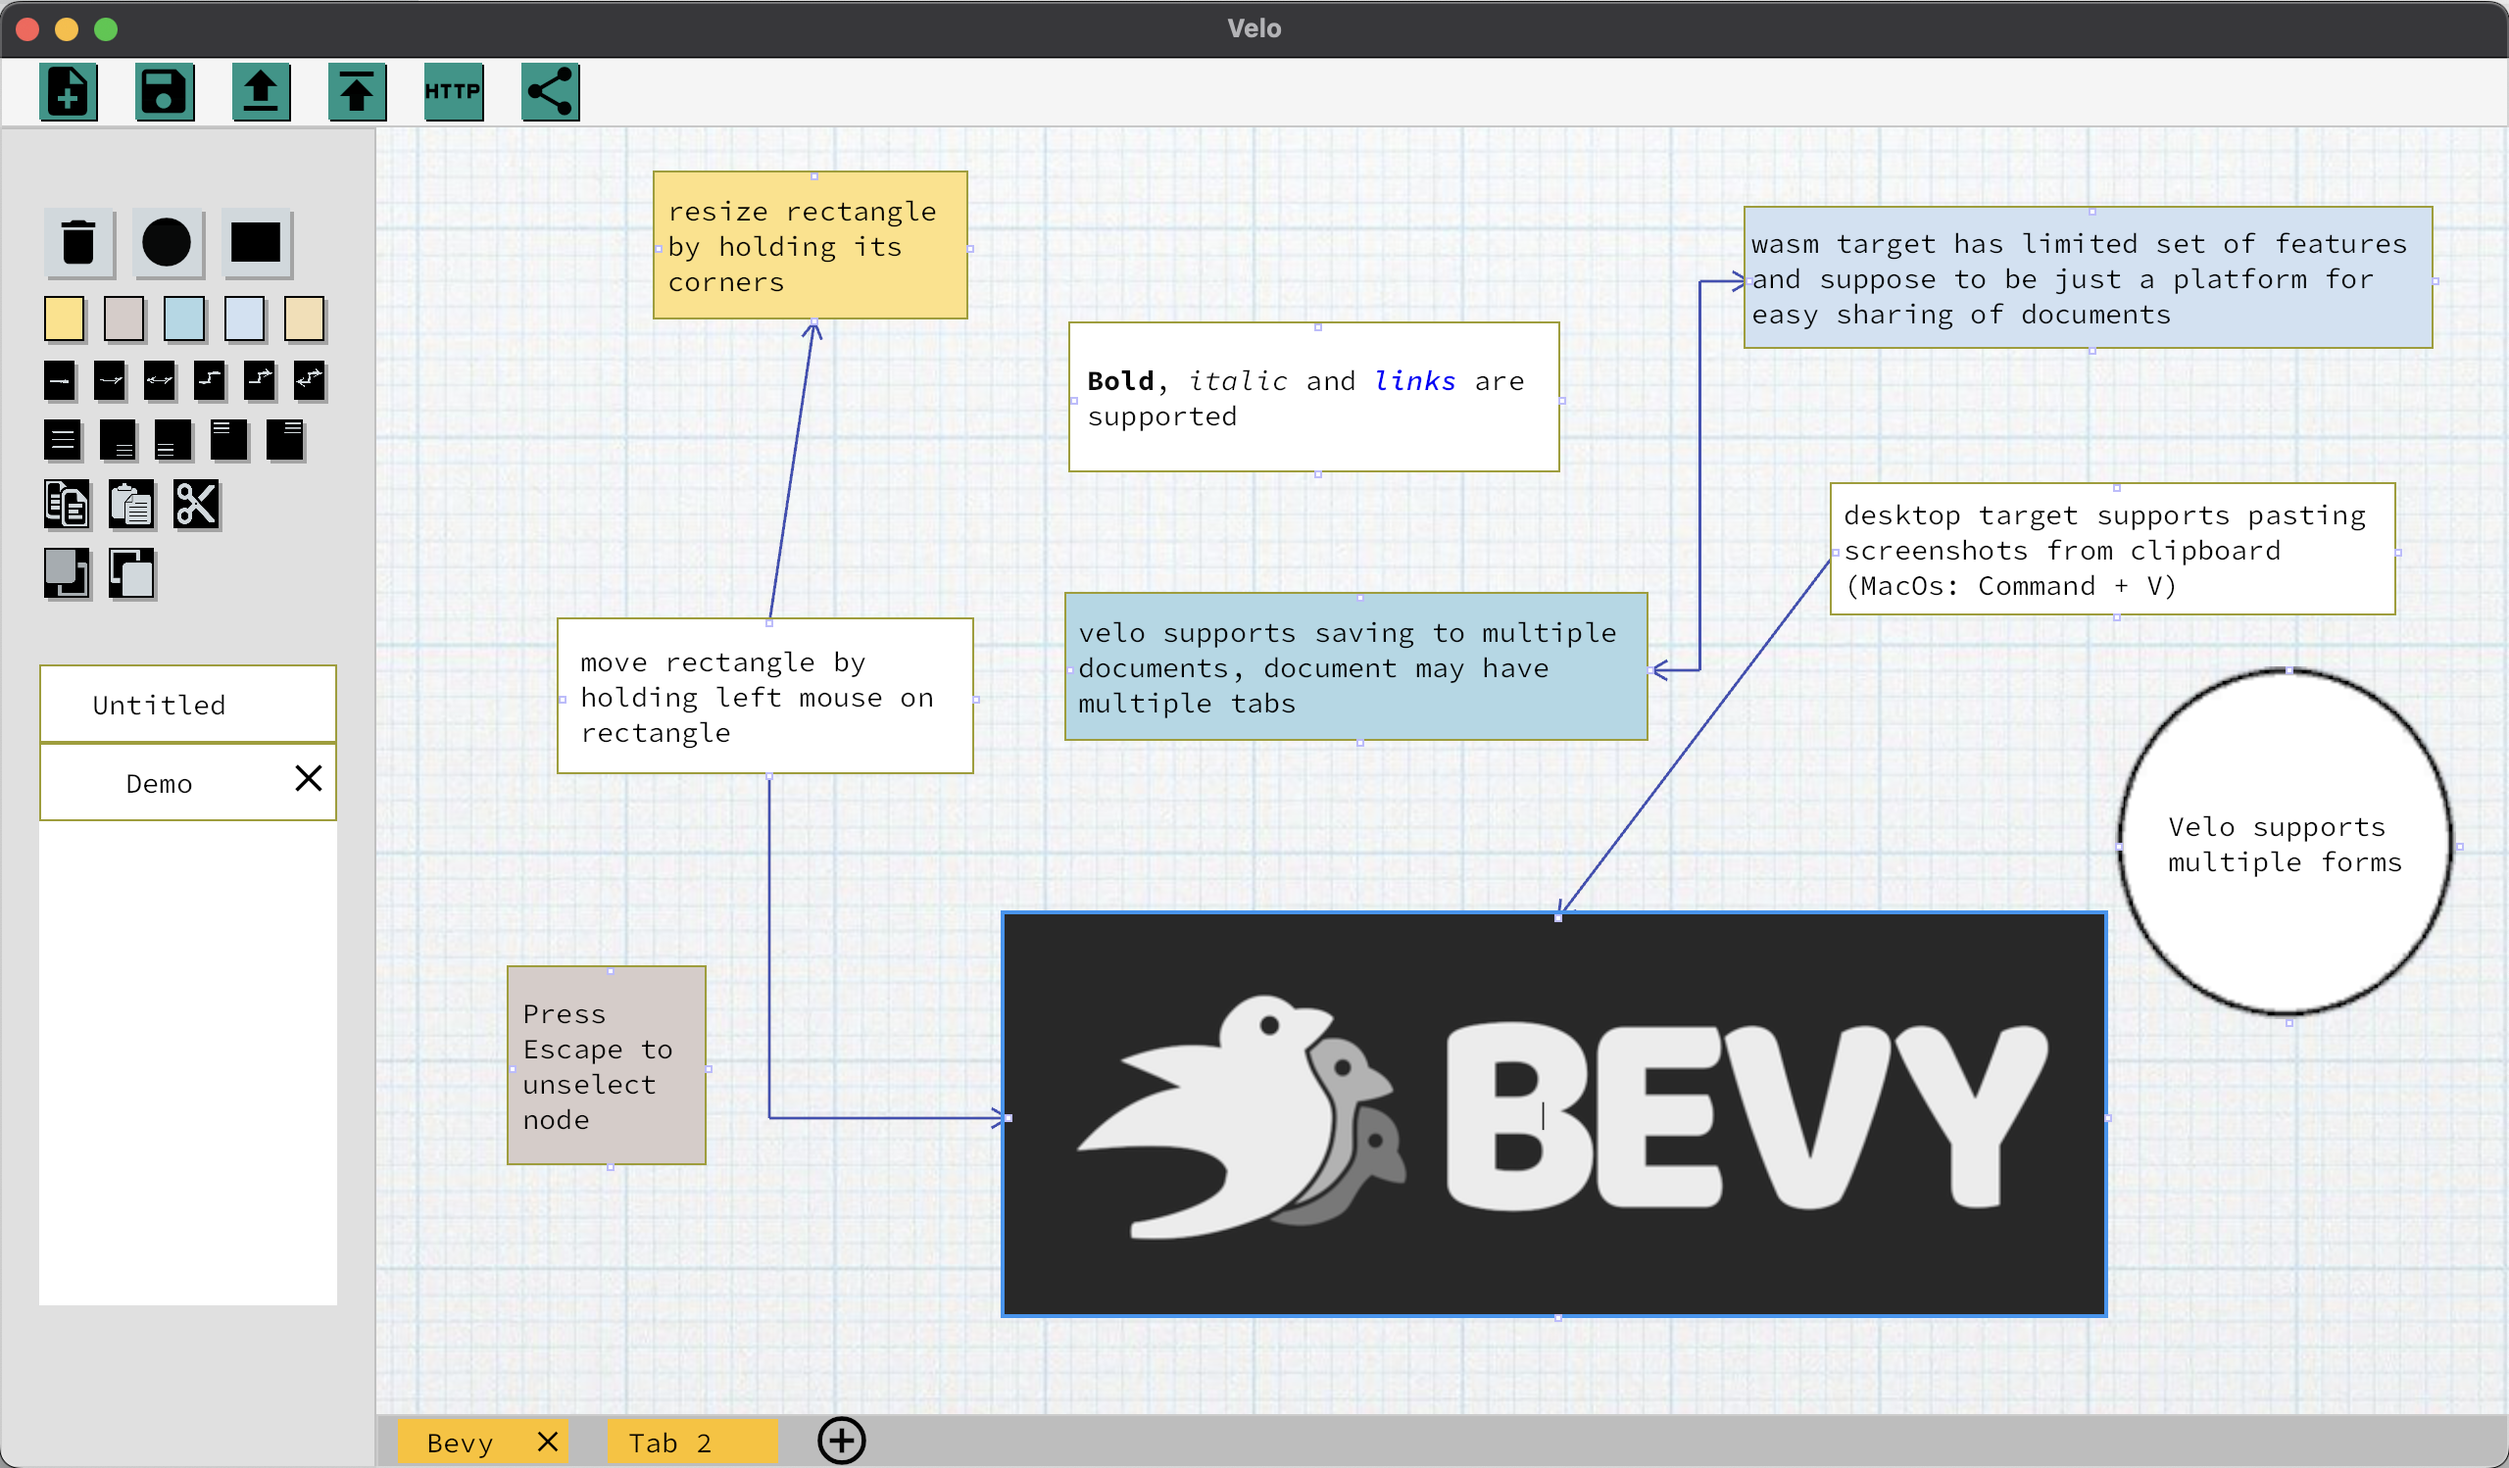
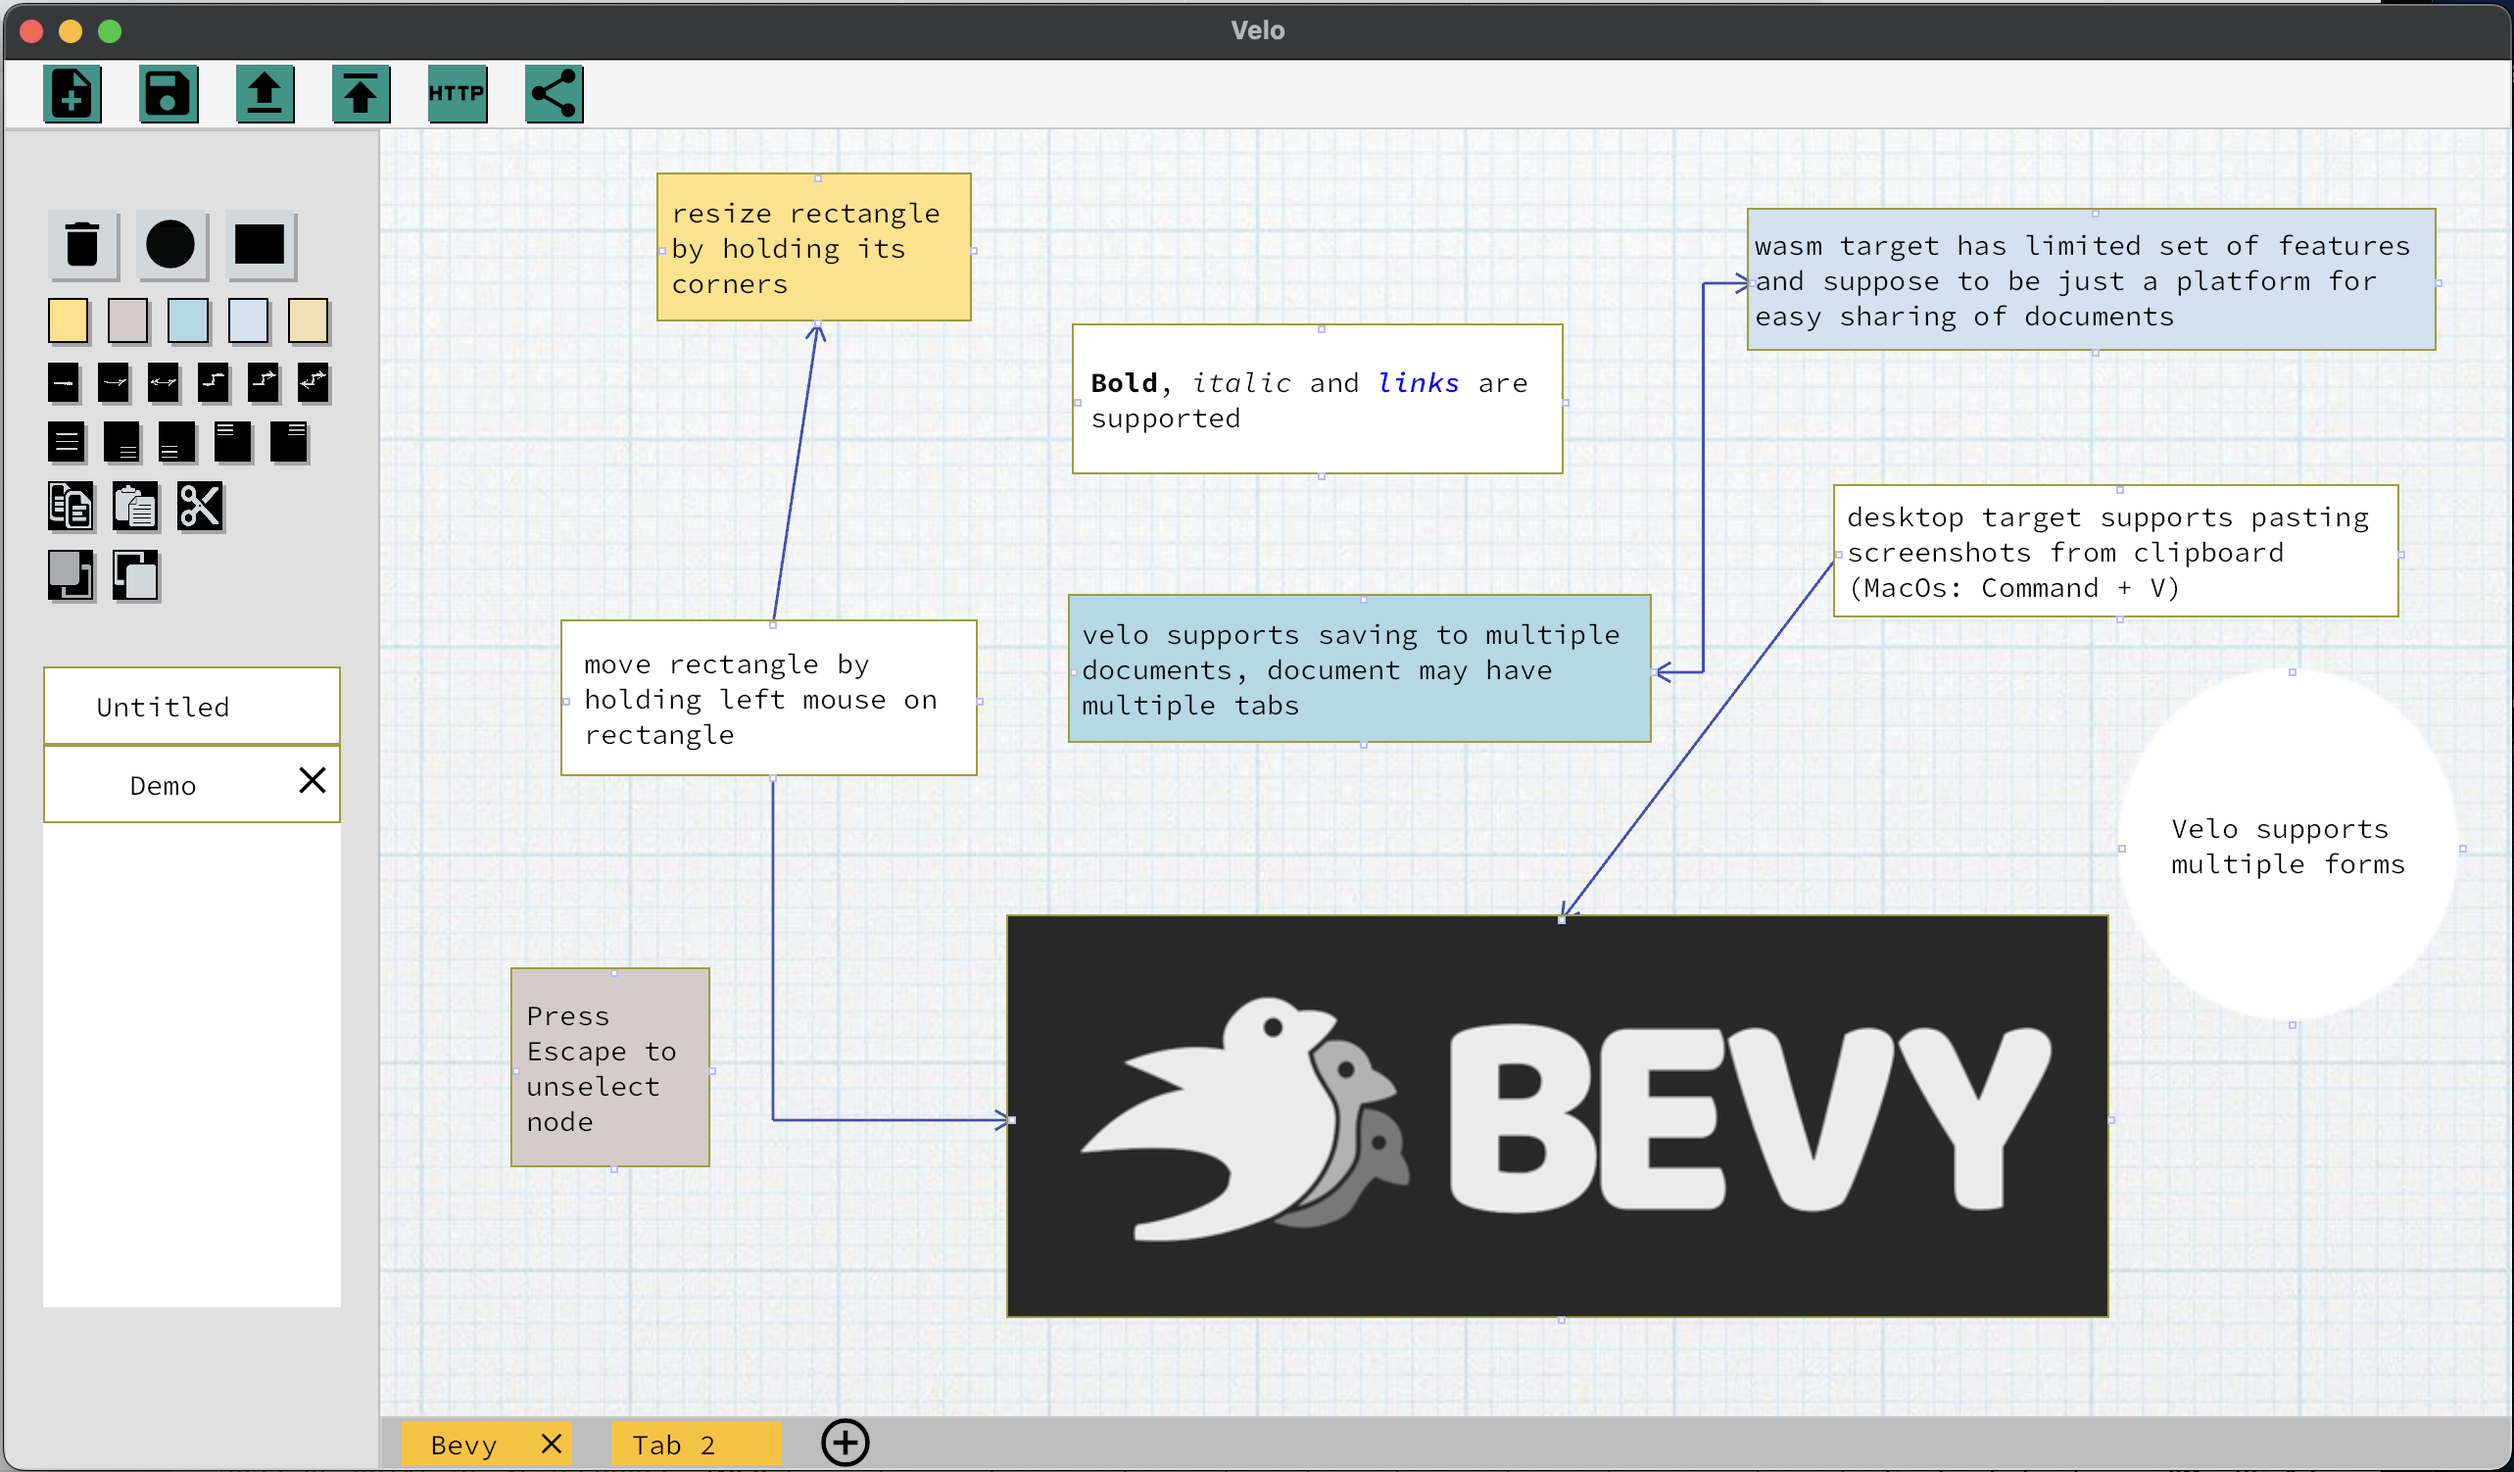
Update circle asset

diff --git a/Readme.md b/Readme.md
@@ -23,26 +23,24 @@ would it allow me to learn the language, but it would also be an
 enjoyable project to work on.
 
 ## What\'s implemented:
-
--   add/remove rectangle
--   rectangle resizing
--   rectangle repositioning
--   wrapped text inside rectangles
--   paste screenshot from clipboard
+-   support rectangle/circle nodes
+-   add/remove node
+-   node resizing
+-   node repositioning
+-   wrapped text inside nodes
+-   paste screenshot from clipboard [native target only]
 -   connect nodes with arrows
--   make app snapshot in memory and load from it (command + s\[l\])
+-   make app snapshot in memory and load from it (MacOs: Command + s\[l\])
 -   save app state to db and load from it
--   change background color of rectangle
--   move rectangle to front/back
--   positioning text in rectangle
+-   change background color of nodes
+-   move node to front/back
+-   positioning text inside node
 -   buttons to cut/copy/paste text
--   clickable links
--   tabs support
--   documents support
+-   multiple documents/tabs support
 -   load app state from url
 -   ability to create sharable url of the document using \"Share
     Document\" button (**.velo.toml** should be created in user home
-    directory containing GitHub access token with \"gist\" scope):
+    directory containing GitHub access token with \"gist\" scope) [native target only]:
 
    ```toml
    github_access_token = "<github_access_token>"
@@ -51,9 +49,6 @@ enjoyable project to work on.
 - initial markdown support
   - italic/bold text style
   - links
-- support multiple forms:
-  - rectangle
-  - circle
 
 ## Run
 
